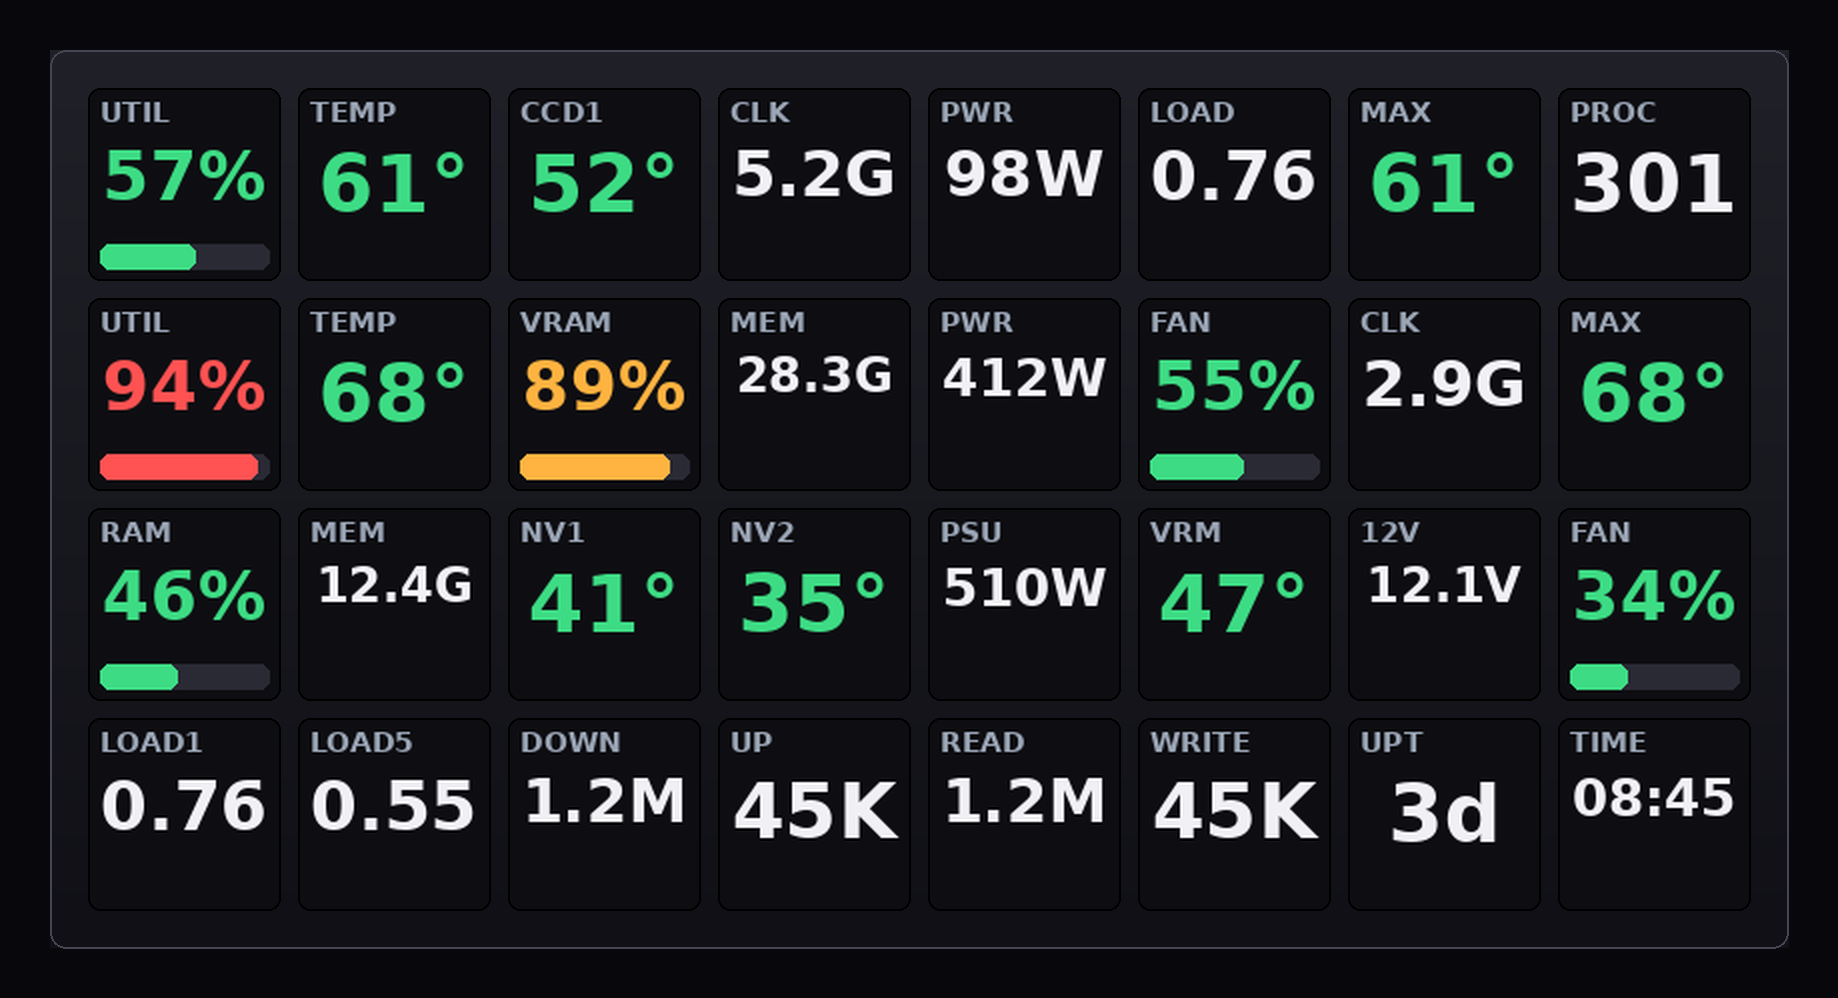
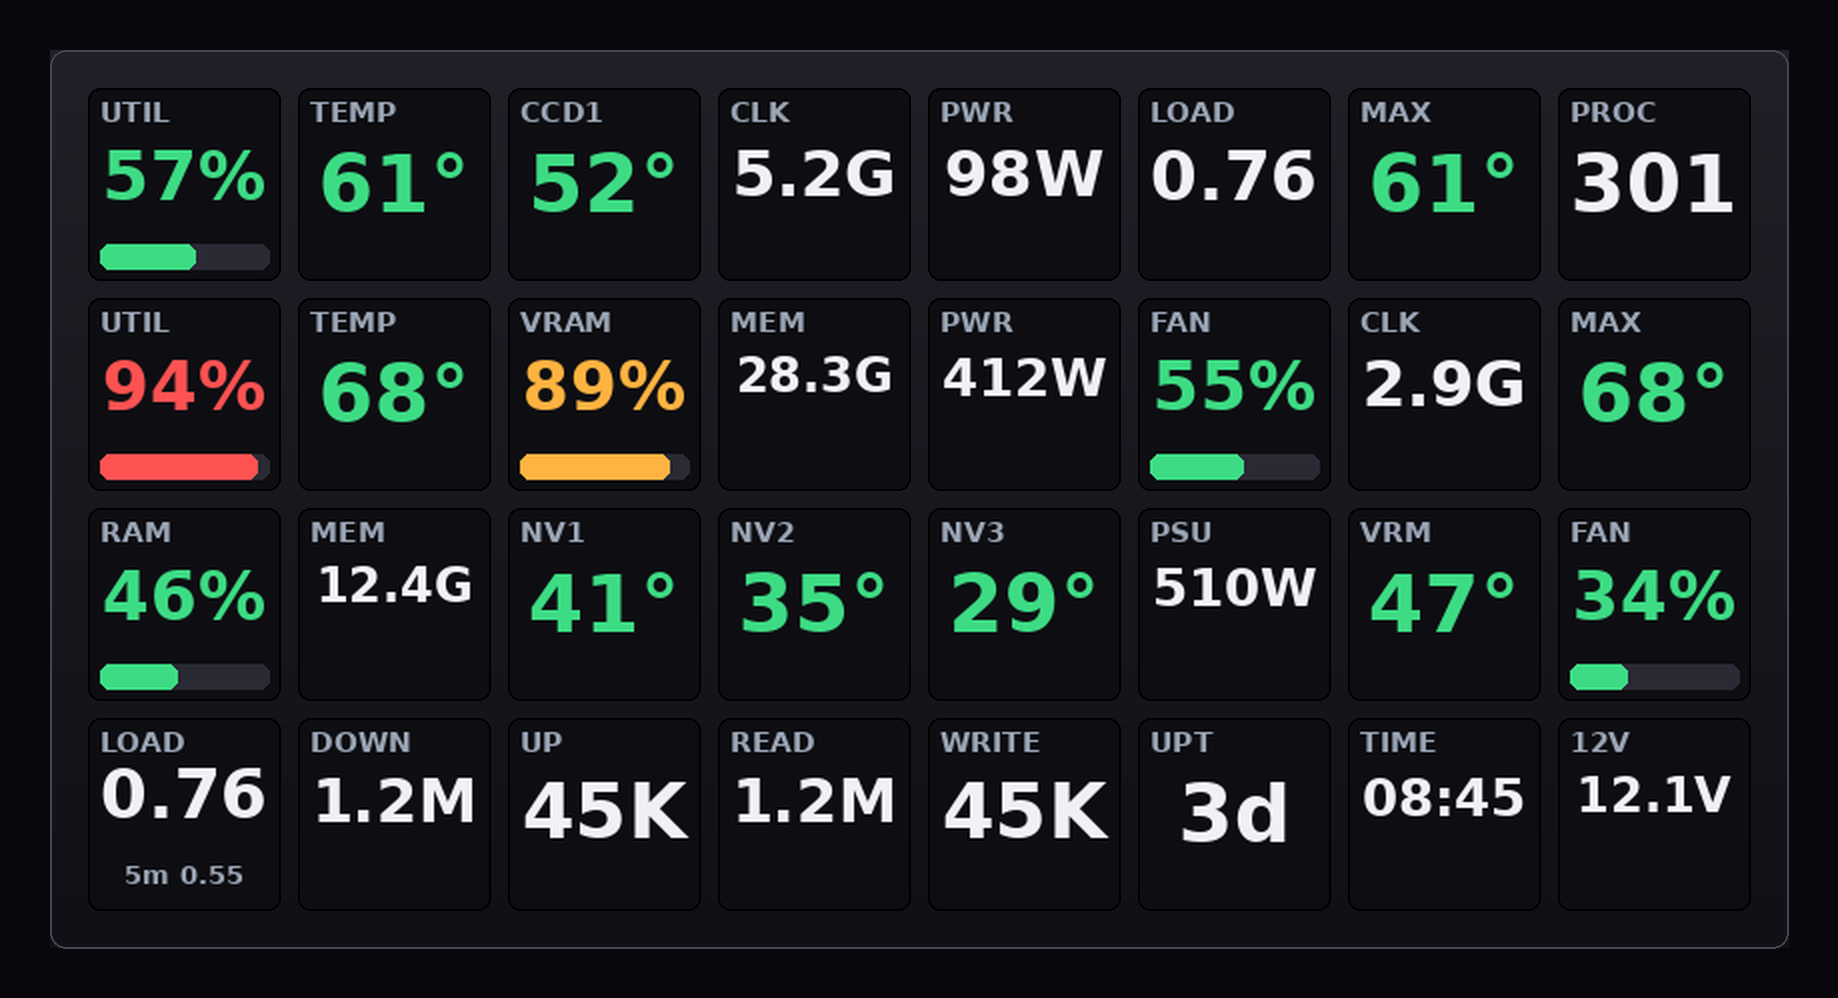
feat: show all three NVMe drives, merge load averages, move 12V
Layout (row 2 now holds the third drive, row 3 gains the 12 V rail):
  ROW 2  RAM  | MEM  | NV1 | NV2 | NV3 | PSU | VRM | FAN
  ROW 3  LOAD | DOWN | UP  | READ|WRITE| UPT |TIME | 12V

- NV1/NV2/NV3 are ordered by controller (nvme0, nvme1, nvme2) resolving the
  hwmon -> device symlink. hwmonN numbering is probe-time and can change
  between boots, which would silently swap the drive behind a label; before
  this change the third drive (nvme1) was not displayed at all and NV2 showed
  nvme2.
- LOAD1 + LOAD5 share one key: 1 min value large, 5 min value as a small
  second line (new 'loadpair' render kind).
- 12 V rail moved from row 2 to the slot freed by the merge.
- Startup log now names the drives it found instead of just counting them.

diff --git a/deck_stats.py b/deck_stats.py
@@ -3,13 +3,14 @@
 
   Row 0  CPU    UTIL | TEMP | CCD1 | CLK | PWR | LOAD | MAX | PROC
   Row 1  GPU    UTIL | TEMP | VRAM | MEM | PWR | FAN  | CLK | MAX
-  Row 2  SYSTEM RAM  | MEM  | NV1  | NV2 | PSU | VRM  | 12V | FAN
-  Row 3  LINUX  LOAD1|LOAD5| DOWN | UP  |READ |WRITE | UPT | TIME
+  Row 2  SYSTEM RAM  | MEM  | NV1  | NV2 | NV3 | PSU | VRM  | FAN
+  Row 3  LINUX  LOAD | DOWN | UP   | READ|WRITE| UPT  | TIME| 12V
 
 Graphic rules:
   - 4-6 char label on top, large centered value, unit inside the value (45° 66W 3.7G)
   - bar only on UTIL/VRAM/RAM/FAN %
   - temperatures: white normal -> yellow -> red
+  - LOAD carries the 1 min average, with the 5 min one as a small second line
 
 Usage:
   deck_stats.py            run the monitor
@@ -187,9 +188,35 @@ def find_rapl():
     return None, None
 
 
+def hwmon_controller(hwmon_dir):
+    """Device behind a hwmon entry (e.g. 'nvme1'), when the kernel exposes it."""
+    if hwmon_dir is None:
+        return None
+    try:
+        return (hwmon_dir / "device").resolve().name
+    except OSError:
+        return None
+
+
+def nvme_hwmons() -> list:
+    """NVMe hwmon devices ordered by controller number (nvme0, nvme1, ...).
+
+    hwmonN numbering is assigned at probe time and can change between boots, so
+    sorting by it would silently swap which drive sits behind NV1/NV2/NV3.
+    """
+    found = []
+    for hwmon in find_hwmons("nvme"):
+        controller = hwmon_controller(hwmon) or ""
+        index = controller[4:] if controller.startswith("nvme") else ""
+        known = index.isdigit()
+        found.append((not known, int(index) if known else 0, str(hwmon), hwmon))
+    found.sort(key=lambda item: item[:3])
+    return [hwmon for *_, hwmon in found]
+
+
 # CPU temperature chip: AMD exposes k10temp, Intel coretemp.
 CPUTEMP = find_hwmon("k10temp", "coretemp")
-NVMES = find_hwmons("nvme")
+NVMES = nvme_hwmons()
 CORSAIR = find_hwmon("corsairpsu", "corsair-psu")
 RAPL, RAPL_RANGE = find_rapl()
 
@@ -382,6 +409,12 @@ APP = App()
 # Set by the SIGTERM/SIGINT handler; checked by the render loop.
 _STOP = False
 
+def _nvme_temp(s, index):
+    """Temperature of the index-th NVMe drive, or None when absent."""
+    temps = s["nvme_temps"]
+    return temps[index] if len(temps) > index else None
+
+
 WIDGETS = [
     # --- Row 0: CPU ---
     (0, 0, "UTIL", "pct",  lambda a, s: s["cpu_pct"], 60, 85),
@@ -410,27 +443,25 @@ WIDGETS = [
     # --- Row 2: System ---
     (2, 0, "RAM",  "pct",  lambda a, s: s["ram"].percent, 70, 90),
     (2, 1, "MEM",  "gb",   lambda a, s: s["ram"].used / 1024 ** 3, 0, 0),
-    (2, 2, "NV1",  "temp", lambda a, s: (
-        s["nvme_temps"][0] if len(s["nvme_temps"]) > 0 else None), 70, 80),
-    (2, 3, "NV2",  "temp", lambda a, s: (
-        s["nvme_temps"][1] if len(s["nvme_temps"]) > 1 else None), 70, 80),
-    (2, 4, "PSU",  "w",    lambda a, s: s["psu_w"], PSU_W_WARN, PSU_W_CRIT),
-    (2, 5, "VRM",  "temp", lambda a, s: s["psu_vrm"], 55, 65),
-    (2, 6, "12V",  "v",    lambda a, s: s["rail12"], 0, 0),
+    (2, 2, "NV1",  "temp", lambda a, s: _nvme_temp(s, 0), 70, 80),
+    (2, 3, "NV2",  "temp", lambda a, s: _nvme_temp(s, 1), 70, 80),
+    (2, 4, "NV3",  "temp", lambda a, s: _nvme_temp(s, 2), 70, 80),
+    (2, 5, "PSU",  "w",    lambda a, s: s["psu_w"], PSU_W_WARN, PSU_W_CRIT),
+    (2, 6, "VRM",  "temp", lambda a, s: s["psu_vrm"], 55, 65),
     (2, 7, "FAN",  "pct",  lambda a, s: s["psu_fan_pct"], 70, 90),
     # --- Row 3: Linux ---
-    (3, 0, "LOAD1", "load", lambda a, s: s["load"][0], 0, 0),
-    (3, 1, "LOAD5", "load", lambda a, s: s["load"][1], 0, 0),
-    (3, 2, "DOWN",  "rate", lambda a, s: a.rate(
+    (3, 0, "LOAD",  "loadpair", lambda a, s: tuple(s["load"]), 0, 0),
+    (3, 1, "DOWN",  "rate", lambda a, s: a.rate(
         "net_rx", s["net_rx"], s["t"]), 0, 0),
-    (3, 3, "UP",    "rate", lambda a, s: a.rate(
+    (3, 2, "UP",    "rate", lambda a, s: a.rate(
         "net_tx", s["net_tx"], s["t"]), 0, 0),
-    (3, 4, "READ",  "rate", lambda a, s: a.rate(
+    (3, 3, "READ",  "rate", lambda a, s: a.rate(
         "disk_r", s["disk_r"], s["t"]), 0, 0),
-    (3, 5, "WRITE", "rate", lambda a, s: a.rate(
+    (3, 4, "WRITE", "rate", lambda a, s: a.rate(
         "disk_w", s["disk_w"], s["t"]), 0, 0),
-    (3, 6, "UPT",   "upt",  lambda a, s: time.monotonic(), 0, 0),
-    (3, 7, "TIME",  "time", lambda a, s: datetime.now().strftime("%H:%M"), 0, 0),
+    (3, 5, "UPT",   "upt",  lambda a, s: time.monotonic(), 0, 0),
+    (3, 6, "TIME",  "time", lambda a, s: datetime.now().strftime("%H:%M"), 0, 0),
+    (3, 7, "12V",   "v",    lambda a, s: s["rail12"], 0, 0),
 ]
 
 
@@ -471,8 +502,18 @@ def key_color(v, warn, crit):
 
 def render_key(label, kind, value, warn=0, crit=0) -> Image.Image:
     """Render a 96x96 key following the graphic rules."""
+    sub = None          # small secondary line under the main value
+    value_y = 24
+    size_max = 40
     if value is None:
         text, ratio, color = "--", None, COL_OFF
+    elif kind == "loadpair":
+        # (1 min, 5 min): the 1 min value leads, the 5 min one goes underneath
+        load1, load5 = value
+        text = "--" if load1 is None else f"{load1:.2f}"
+        sub = None if load5 is None else f"5m {load5:.2f}"
+        ratio, color = None, COL_VALUE
+        value_y, size_max = 18, 34
     else:
         ratio = None
         color = COL_VALUE
@@ -510,12 +551,17 @@ def render_key(label, kind, value, warn=0, crit=0) -> Image.Image:
     d = ImageDraw.Draw(img)
     d.text((6, 4), label, font=font(14), fill=COL_TITLE)
 
-    size = 40
+    size = size_max
     while size > 20 and d.textlength(text, font=font(size)) > 84:
         size -= 2
     f_val = font(size)
     w = d.textlength(text, font=f_val)
-    d.text(((KEY_W - w) / 2, 24), text, font=f_val, fill=color)
+    d.text(((KEY_W - w) / 2, value_y), text, font=f_val, fill=color)
+
+    if sub:
+        f_sub = font(13)
+        w = d.textlength(sub, font=f_sub)
+        d.text(((KEY_W - w) / 2, 70), sub, font=f_sub, fill=COL_TITLE)
 
     if ratio is not None:  # bar only on UTIL/VRAM/RAM/FAN
         d.rounded_rectangle((6, 78, 90, 90), radius=5, fill=COL_TRACK)
@@ -603,7 +649,7 @@ def main():
     manager = DeviceManager()
     print("Sensors:", {
         "cpu_temp": hwmon_name(CPUTEMP),
-        "nvme": len(NVMES),
+        "nvme": [hwmon_controller(h) or h.name for h in NVMES],
         "psu": hwmon_name(CORSAIR),
         "rapl": RAPL is not None,
     })
@@ -681,7 +727,7 @@ def preview():
         "cpu_pct": 57, "cpu_temp": 61.2, "ccd1_temp": 52.0, "cpu_clk": 5.24,
         "gpu": {"temp": 68.0, "util": 94, "fan": 55, "power": 412.0,
                 "mem_used": 28950.0, "mem_total": 32607.0, "clk": 2.86},
-        "nvme_temps": [41.0, 35.0],
+        "nvme_temps": [41.0, 35.0, 29.0],
         "psu_w": 510.0, "psu_vrm": 47.0,
         "psu_fan_pct": 34, "psu_fan_rpm": 368, "rail12": 12.06,
         "ram": ram(percent=46, used=12.4 * 1024 ** 3),

diff --git a/README.md b/README.md
@@ -13,14 +13,15 @@ hwmon and `nvidia-smi`.
 ```
 ROW 0  CPU     UTIL | TEMP | CCD1 | CLK | PWR | LOAD | MAX | PROC
 ROW 1  GPU     UTIL | TEMP | VRAM | MEM | PWR | FAN  | CLK | MAX
-ROW 2  SYSTEM  RAM  | MEM  | NV1  | NV2 | PSU | VRM  | 12V | FAN
-ROW 3  LINUX   LOAD1|LOAD5| DOWN | UP  |READ |WRITE | UPT | TIME
+ROW 2  SYSTEM  RAM  | MEM  | NV1  | NV2 | NV3 | PSU  | VRM | FAN
+ROW 3  LINUX   LOAD | DOWN | UP   | READ|WRITE| UPT  |TIME | 12V
 ```
 
 ## Graphic rules
 
 - 4–6 char label on top, small; large centered value
 - Unit inside the value, not in the label: `45°` `66W` `3.7G` `2.8G`
+- `LOAD` shows the 1 min average large, with the 5 min one as a small second line
 - Colored bar **only** on UTIL, VRAM, RAM and FAN %
 - Temperatures: white normal → yellow → red
 - `--` = sensor unavailable at that moment (never a placeholder `0`)
@@ -31,7 +32,7 @@ ROW 3  LINUX   LOAD1|LOAD5| DOWN | UP  |READ |WRITE | UPT | TIME
 |---|---|
 | CPU | `psutil` (load), `k10temp` or `coretemp` hwmon (Tctl/CCD1), RAPL (power), cpufreq (clock) |
 | GPU | `nvidia-smi` (util, temp, VRAM, power, fan, clock) |
-| System | `corsairpsu` hwmon *(optional: power, VRM, fan, 12V rail)*, NVMe hwmon, `psutil` (RAM) |
+| System | RAM/CPU load, up to 3 NVMe hwmon temperatures (NV1–NV3), `corsairpsu` hwmon *(optional: power, VRM, fan, 12 V rail)* |
 | Linux | `/proc/loadavg`, `/proc/net/dev`, `/proc/diskstats`, `psutil.pids()`, clock |
 
 Everything is auto-detected: the CPU temperature chip, the RAPL package
@@ -91,6 +92,11 @@ journalctl --user -u deck-stats -f         # live logs
   the baseline).
 - Disk I/O counts whole block devices only: partitions are reported by
   `/proc/diskstats` with overlapping counters and would double the rate.
+- `NV1`–`NV3` follow controller order (`nvme0`, `nvme1`, `nvme2`), not `hwmonN`
+  numbering: the latter is assigned at probe time and can change between boots,
+  which would silently swap the drive behind a label. Extra drives are reported
+  on the startup log line (`Sensors: {...}`); SATA disks expose no temperature
+  unless the `drivetemp` module is loaded (they are not read yet).
 - If the deck is unplugged the script reconnects automatically; on exit
   (Ctrl-C or SIGTERM from systemd) it blanks the keys instead of leaving stale
   numbers lit.
